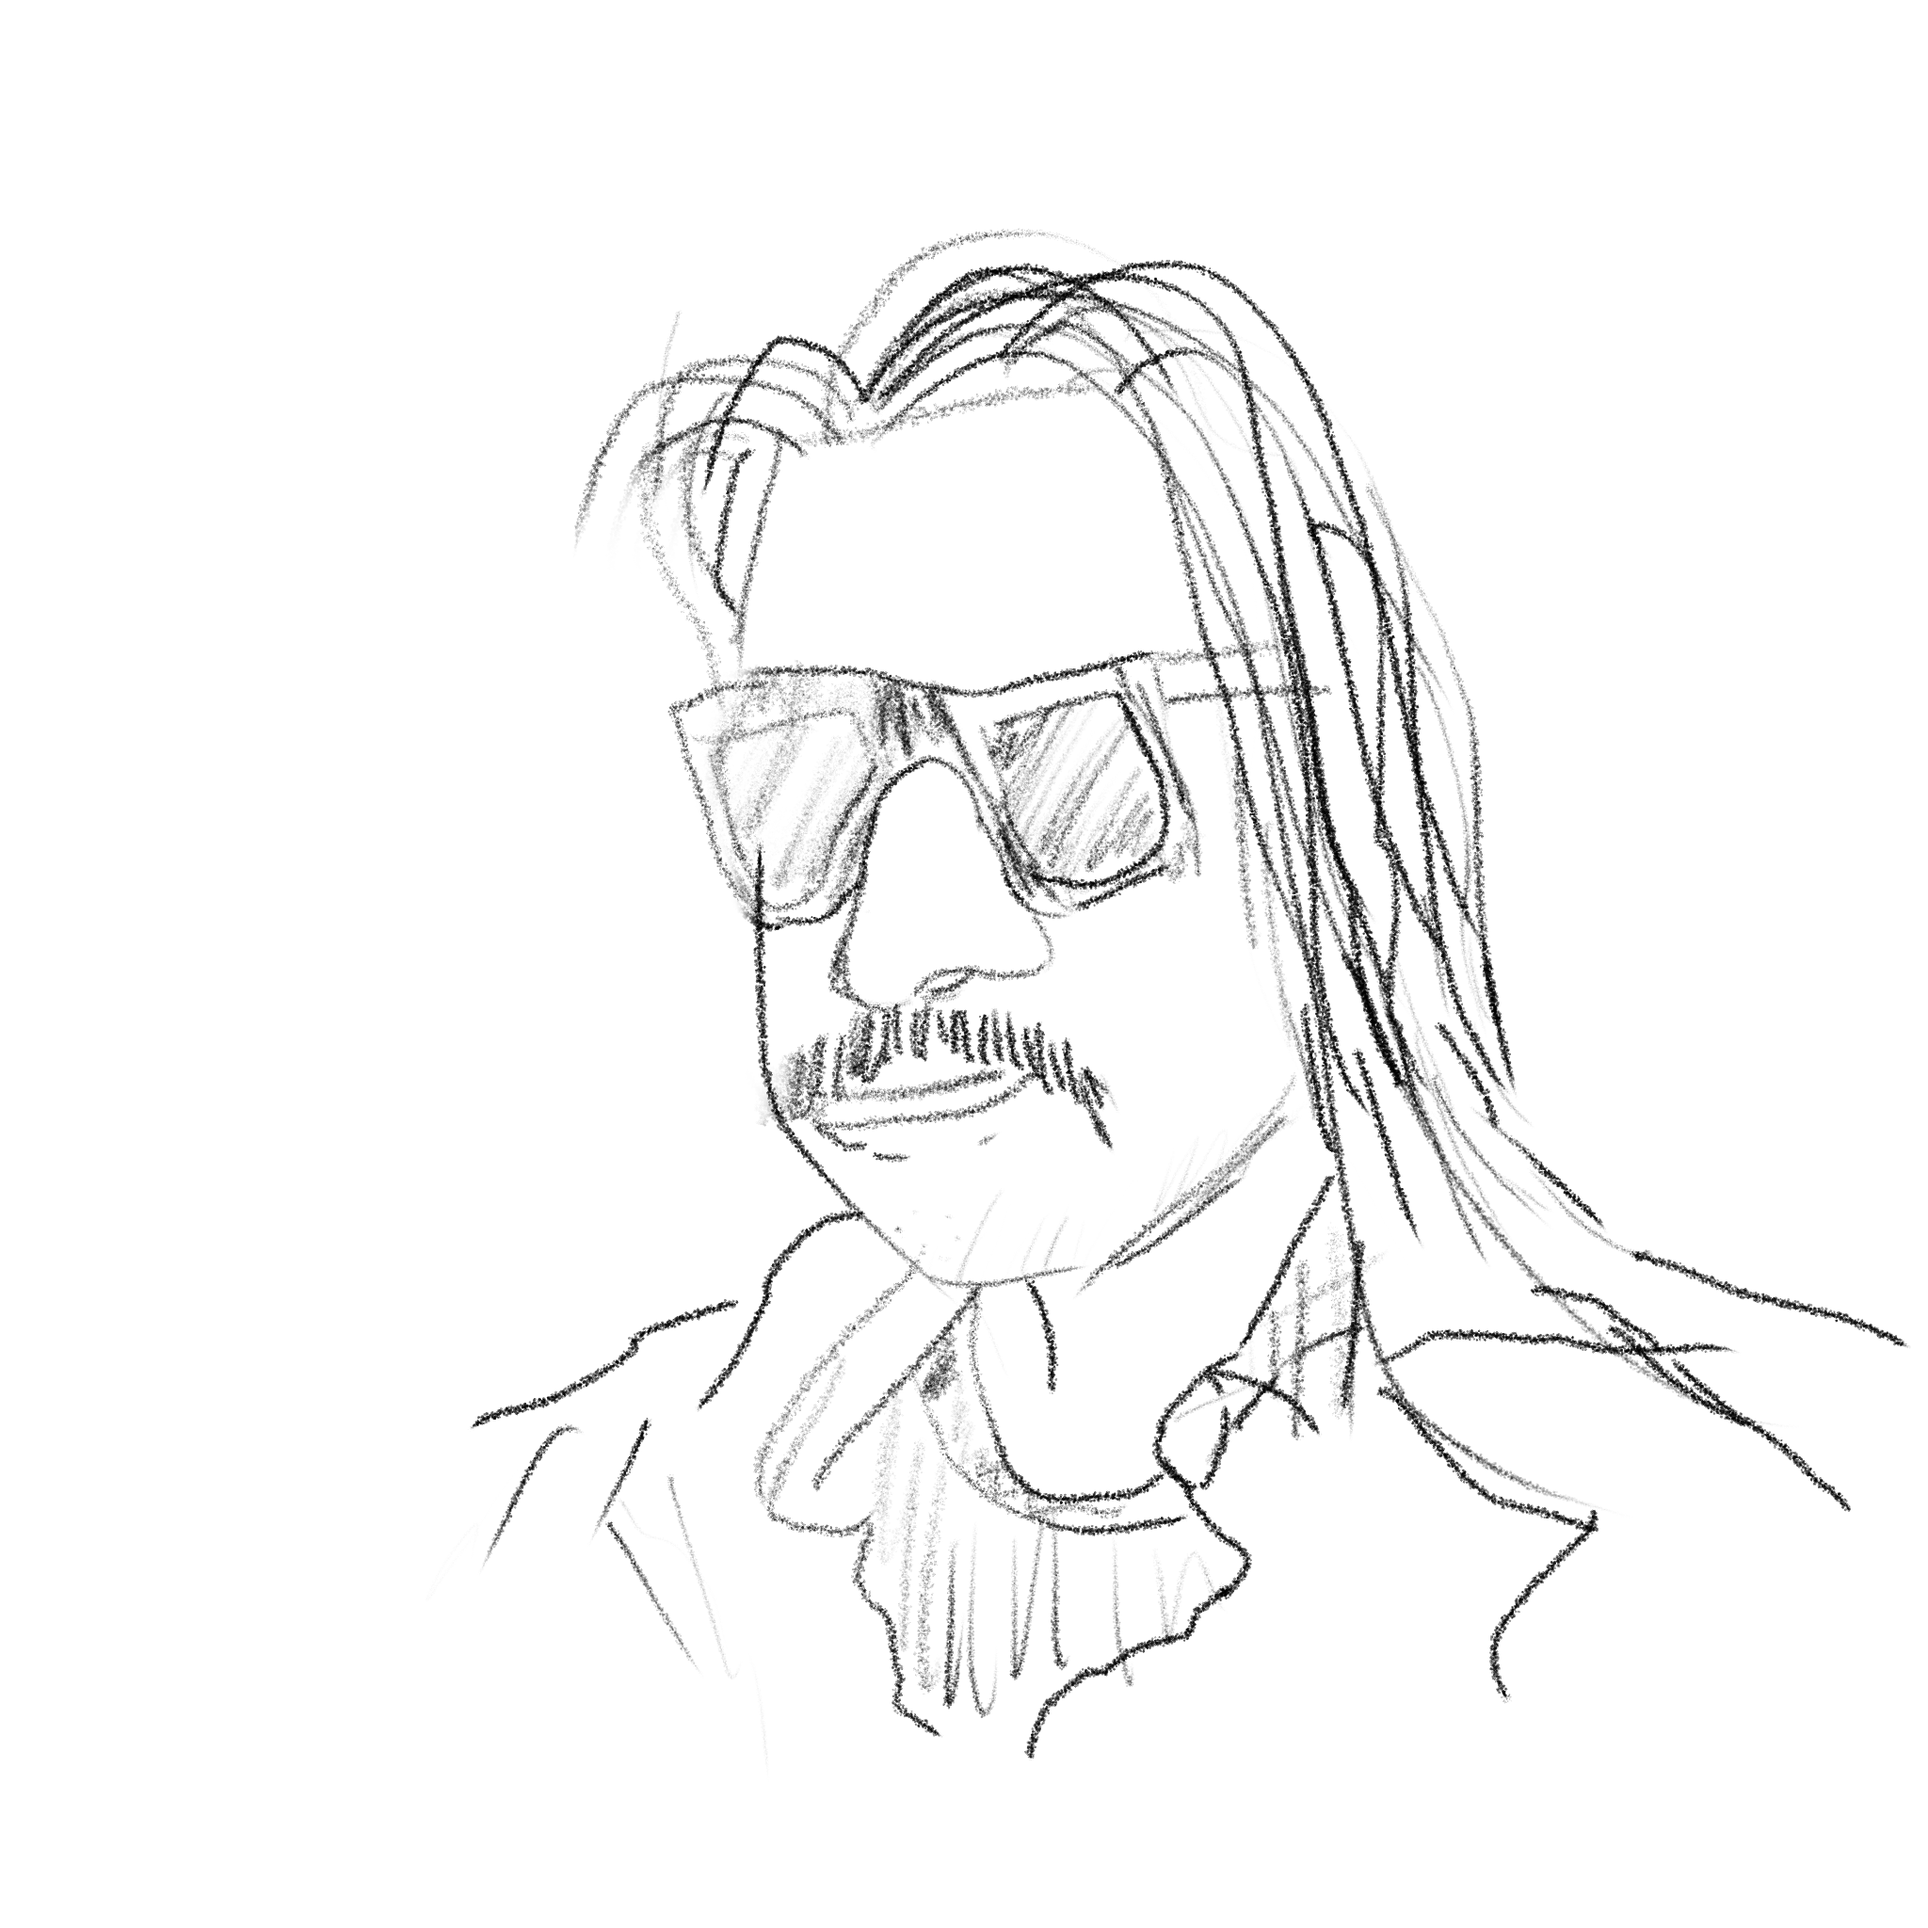
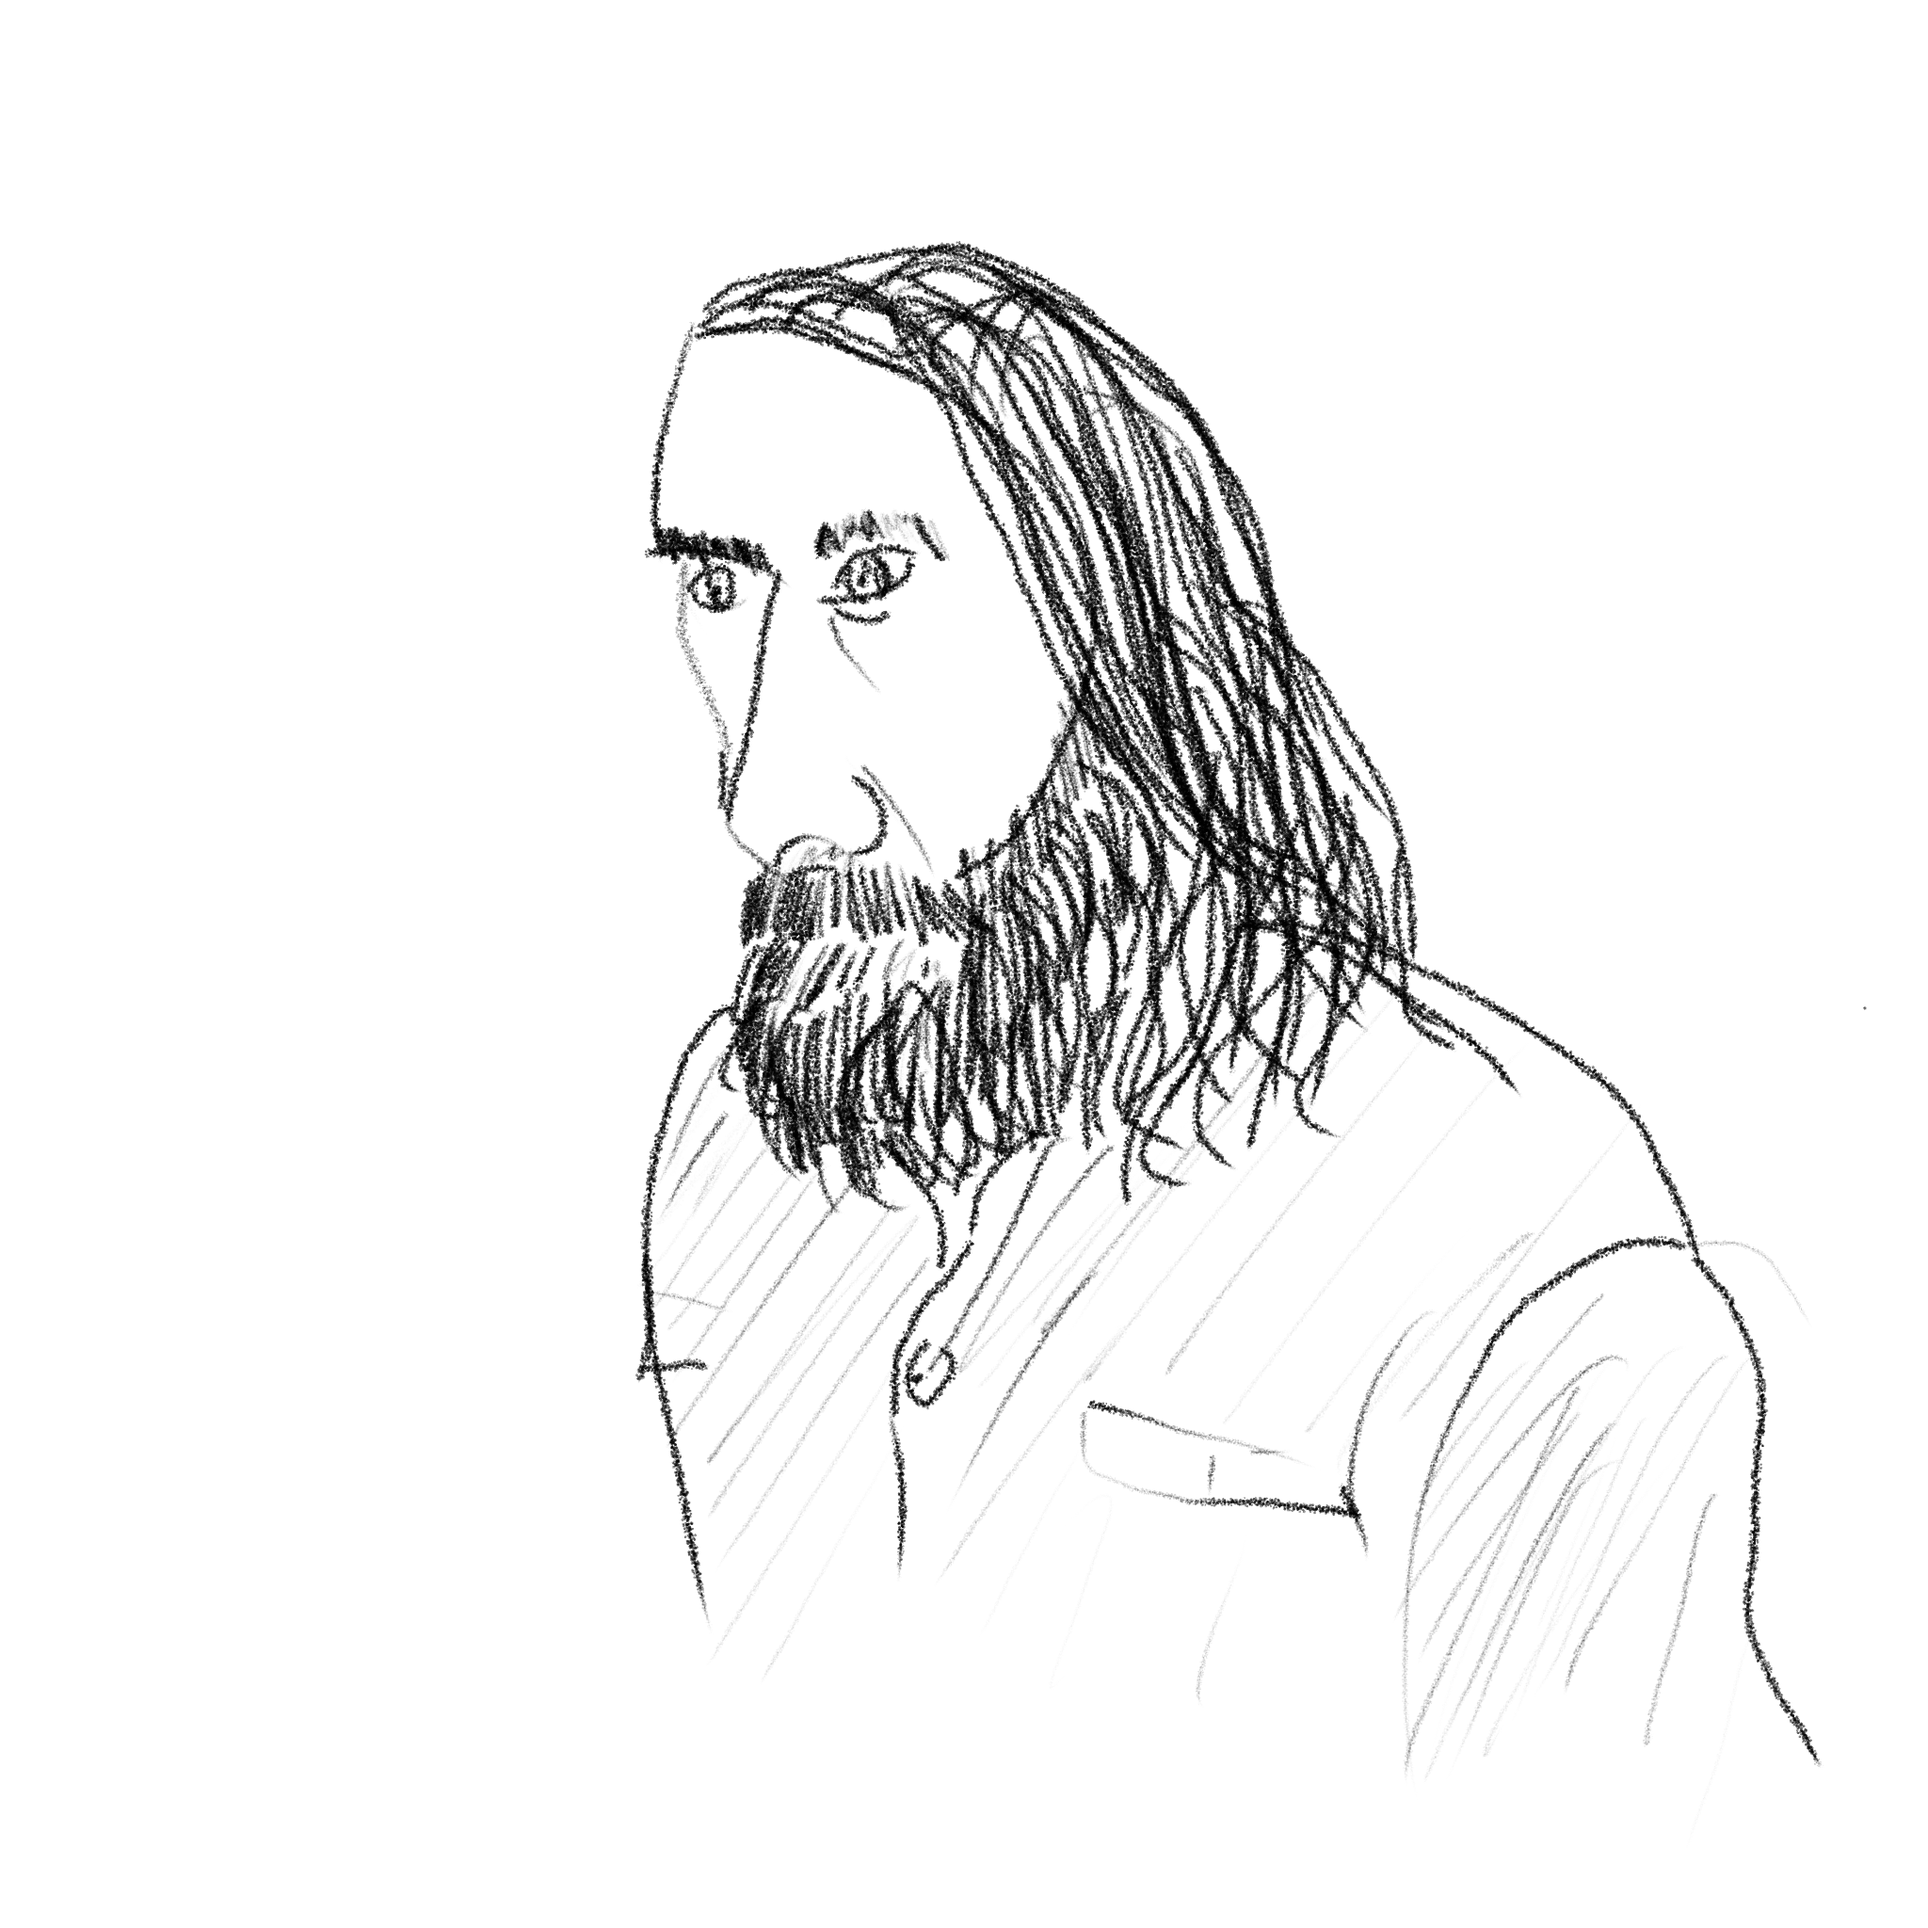
The files are in the computer

Changed region(s): [[0.2812, 0.125, 0.9688, 0.9062], [0.25, 0.7188, 0.3125, 0.7812], [0.9062, 0.8438, 0.9375, 0.9062]]

diff --git a/_posts/learning-to-draw/2022-11-15-learning-to-draw.md b/_posts/learning-to-draw/2022-11-15-learning-to-draw.md
@@ -28,11 +28,11 @@ One of the best things about learning to draw as an adult is that you have a bet
 
 For example, one of my favorite things to do now is look back at old drawings and see how far I've come. Consider this drawing from over twenty minutes ago:
 
-![Crimes Against Portraiture, Fig. 1](portrait-2.png){:class="img-responsive"}
+<img src="{{site.baseurl | prepend: site.url}}portrait-1.png" alt="Crimes Against Portaiture, Fig. 1" />
 
  and compare it to this one from just now:
 
-![Crimes Against Portraiture, Fig. 2](portrait-1.png){:class="img-responsive"}
+<img src="{{site.baseurl | prepend: site.url}}portrait-2.png" alt="Crimes Against Portaiture, Fig. 2" />
 
 It's amazing how much your skills can improve in just a few short minutes when you're thinking about putting in the effort on a regular basis. And while my drawings still aren't perfect, it's nice knowing that I'm thinking about making progress—however slowly it may be.
 
